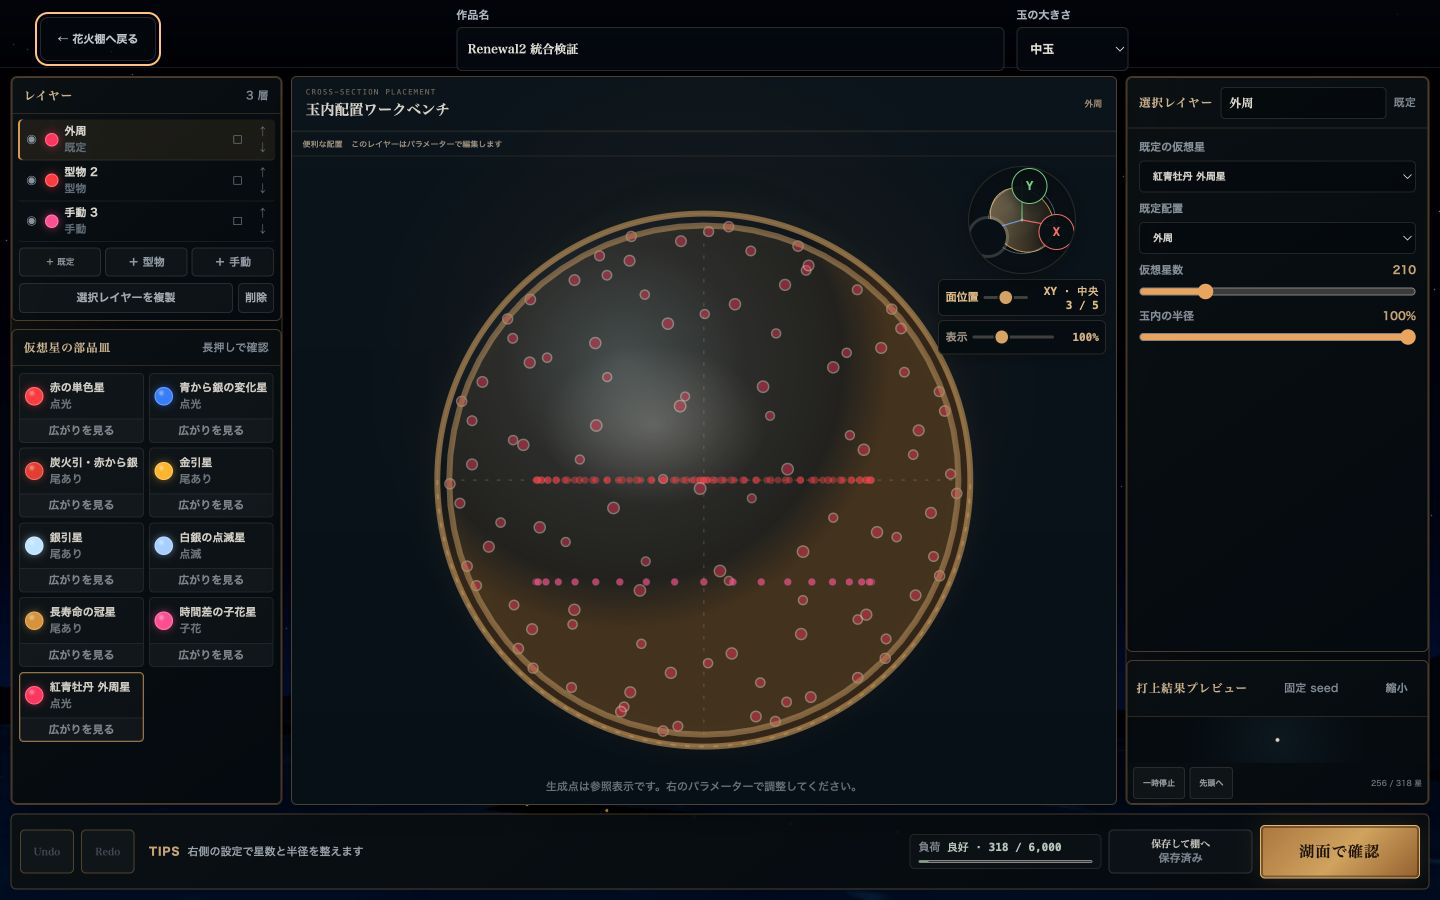
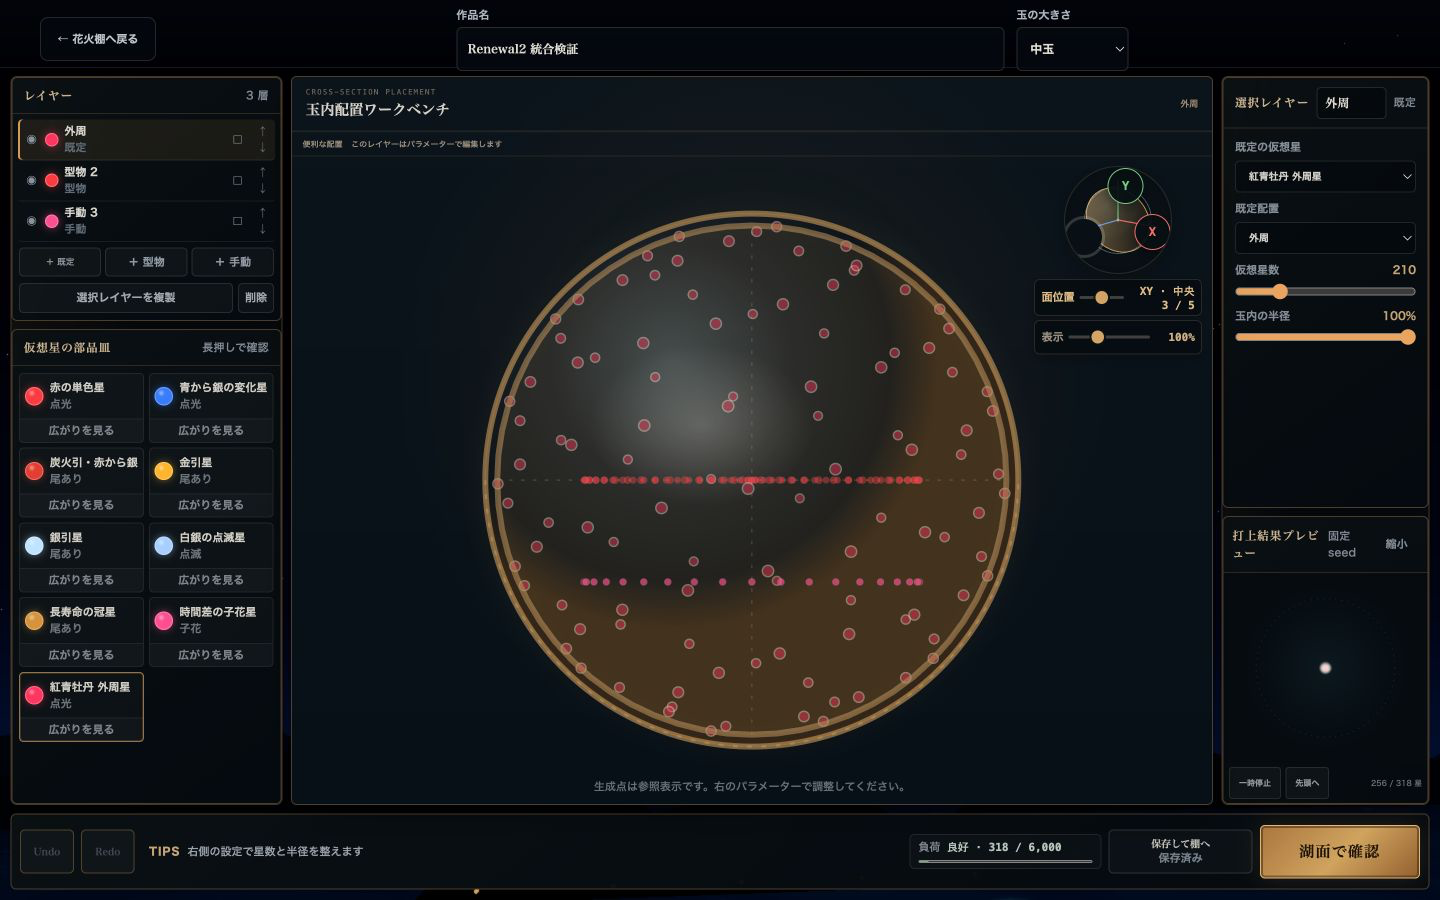
Expand craft workbench and preview

diff --git a/src/style.css b/src/style.css
@@ -24,8 +24,8 @@
 
 .integrated-craft-editor {
   grid-template-columns: minmax(15rem, 17rem) minmax(30rem, 1fr) minmax(
-      17rem,
-      19rem
+      11rem,
+      13rem
     );
   grid-template-rows: minmax(0, 1fr) 4.5rem;
   overflow: hidden;
@@ -5527,8 +5527,8 @@ input[type="range"] {
 .craft-workspace.integrated-craft-editor {
   display: grid;
   grid-template-columns: minmax(15rem, 17rem) minmax(30rem, 1fr) minmax(
-      17rem,
-      19rem
+      11rem,
+      13rem
     );
   grid-template-rows: minmax(0, 1fr) 4.5rem;
   overflow: hidden;
@@ -5544,7 +5544,7 @@ input[type="range"] {
 
 @media (max-width: 1180px) {
   .craft-workspace.integrated-craft-editor {
-    grid-template-columns: 14rem minmax(27rem, 1fr) 16rem;
+    grid-template-columns: 14rem minmax(27rem, 1fr) 10rem;
   }
 }
 
@@ -6043,7 +6043,7 @@ h3,
   display: grid;
   width: 100%;
   min-height: 0;
-  height: 9rem;
+  height: 18rem;
   grid-template-rows: auto minmax(0, 1fr) auto;
   transition: height 160ms ease;
 }

diff --git a/Docs/CRAFT_EDITOR_REFINE_IMPLEMENTATION_PLAN.md b/Docs/CRAFT_EDITOR_REFINE_IMPLEMENTATION_PLAN.md
@@ -685,3 +685,13 @@ viewport:
 - 1280 × 720ではcontrol cluster 168 × 188px、390 × 844では140 × 168pxとなり、いずれも横overflowはなかった。
 - 390 × 844の設定drawerではpreview 336 × 144px、折り畳み時336 × 44pxとなり、drawer内に収まった。
 - UI追補後の品質ゲートは`lint`、61ファイル／250テスト、`build`がすべて成功した。
+
+### UI追補: workbench幅とpreview高の再配分
+
+- 実施日: 2026-07-20
+- desktopの右ペイン幅を約302pxから208pxへ縮め、差分の約96pxを中央workbenchへ配分した。
+- 1440 × 900ではworkbench幅922px、右ペイン幅208px、inspector高431px、preview 206 × 288pxとなった。
+- 1280 × 720ではworkbench幅762px、右ペイン幅208px、inspector高251px、preview 206 × 288pxとなった。
+- previewの展開高を144pxから288pxへ倍増し、折り畳み高は44pxを維持した。1280 × 720で折り畳むとinspector高は495pxまで戻る。
+- 390 × 844の設定drawerではinspector 336 × 401px、preview 336 × 288pxとなり、drawer内に重なりなく収まった。
+- UI追補後の品質ゲートは変更ファイルのformat、`lint`、61ファイル／250テスト、`build`がすべて成功した。
